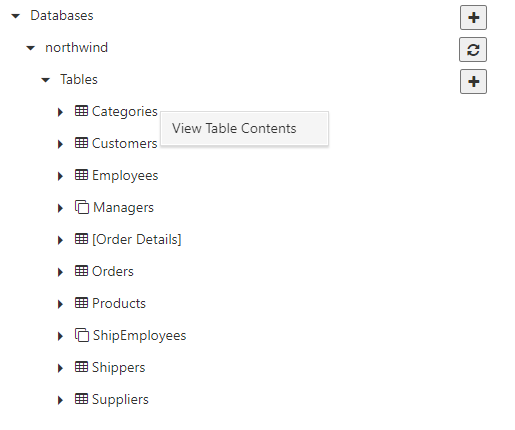
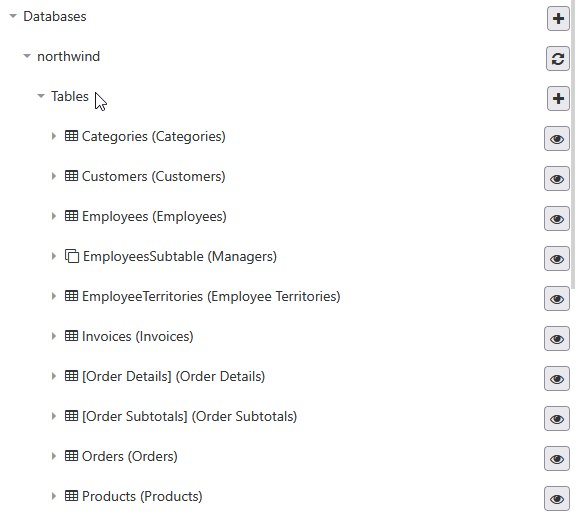
Fixed method for retrieving table contents in docs for new release.

diff --git a/_docs/studio/datadictionary/view-table-contents.md b/_docs/studio/datadictionary/view-table-contents.md
@@ -6,7 +6,7 @@ parent: Data Dictionary
 grand_parent: Horizon Reports Studio
 ---
 
-You can use Studio to retrieve the data for a table. To do so, right click on the desired table in the database tree view, and choose *View Table Contents*. 
+You can use Studio to retrieve the data for a table. To do so, use the action icon in the right hand column of the database list that appears for table entries.
 
 ![](/assets/images/viewtablemenu.png)
 
